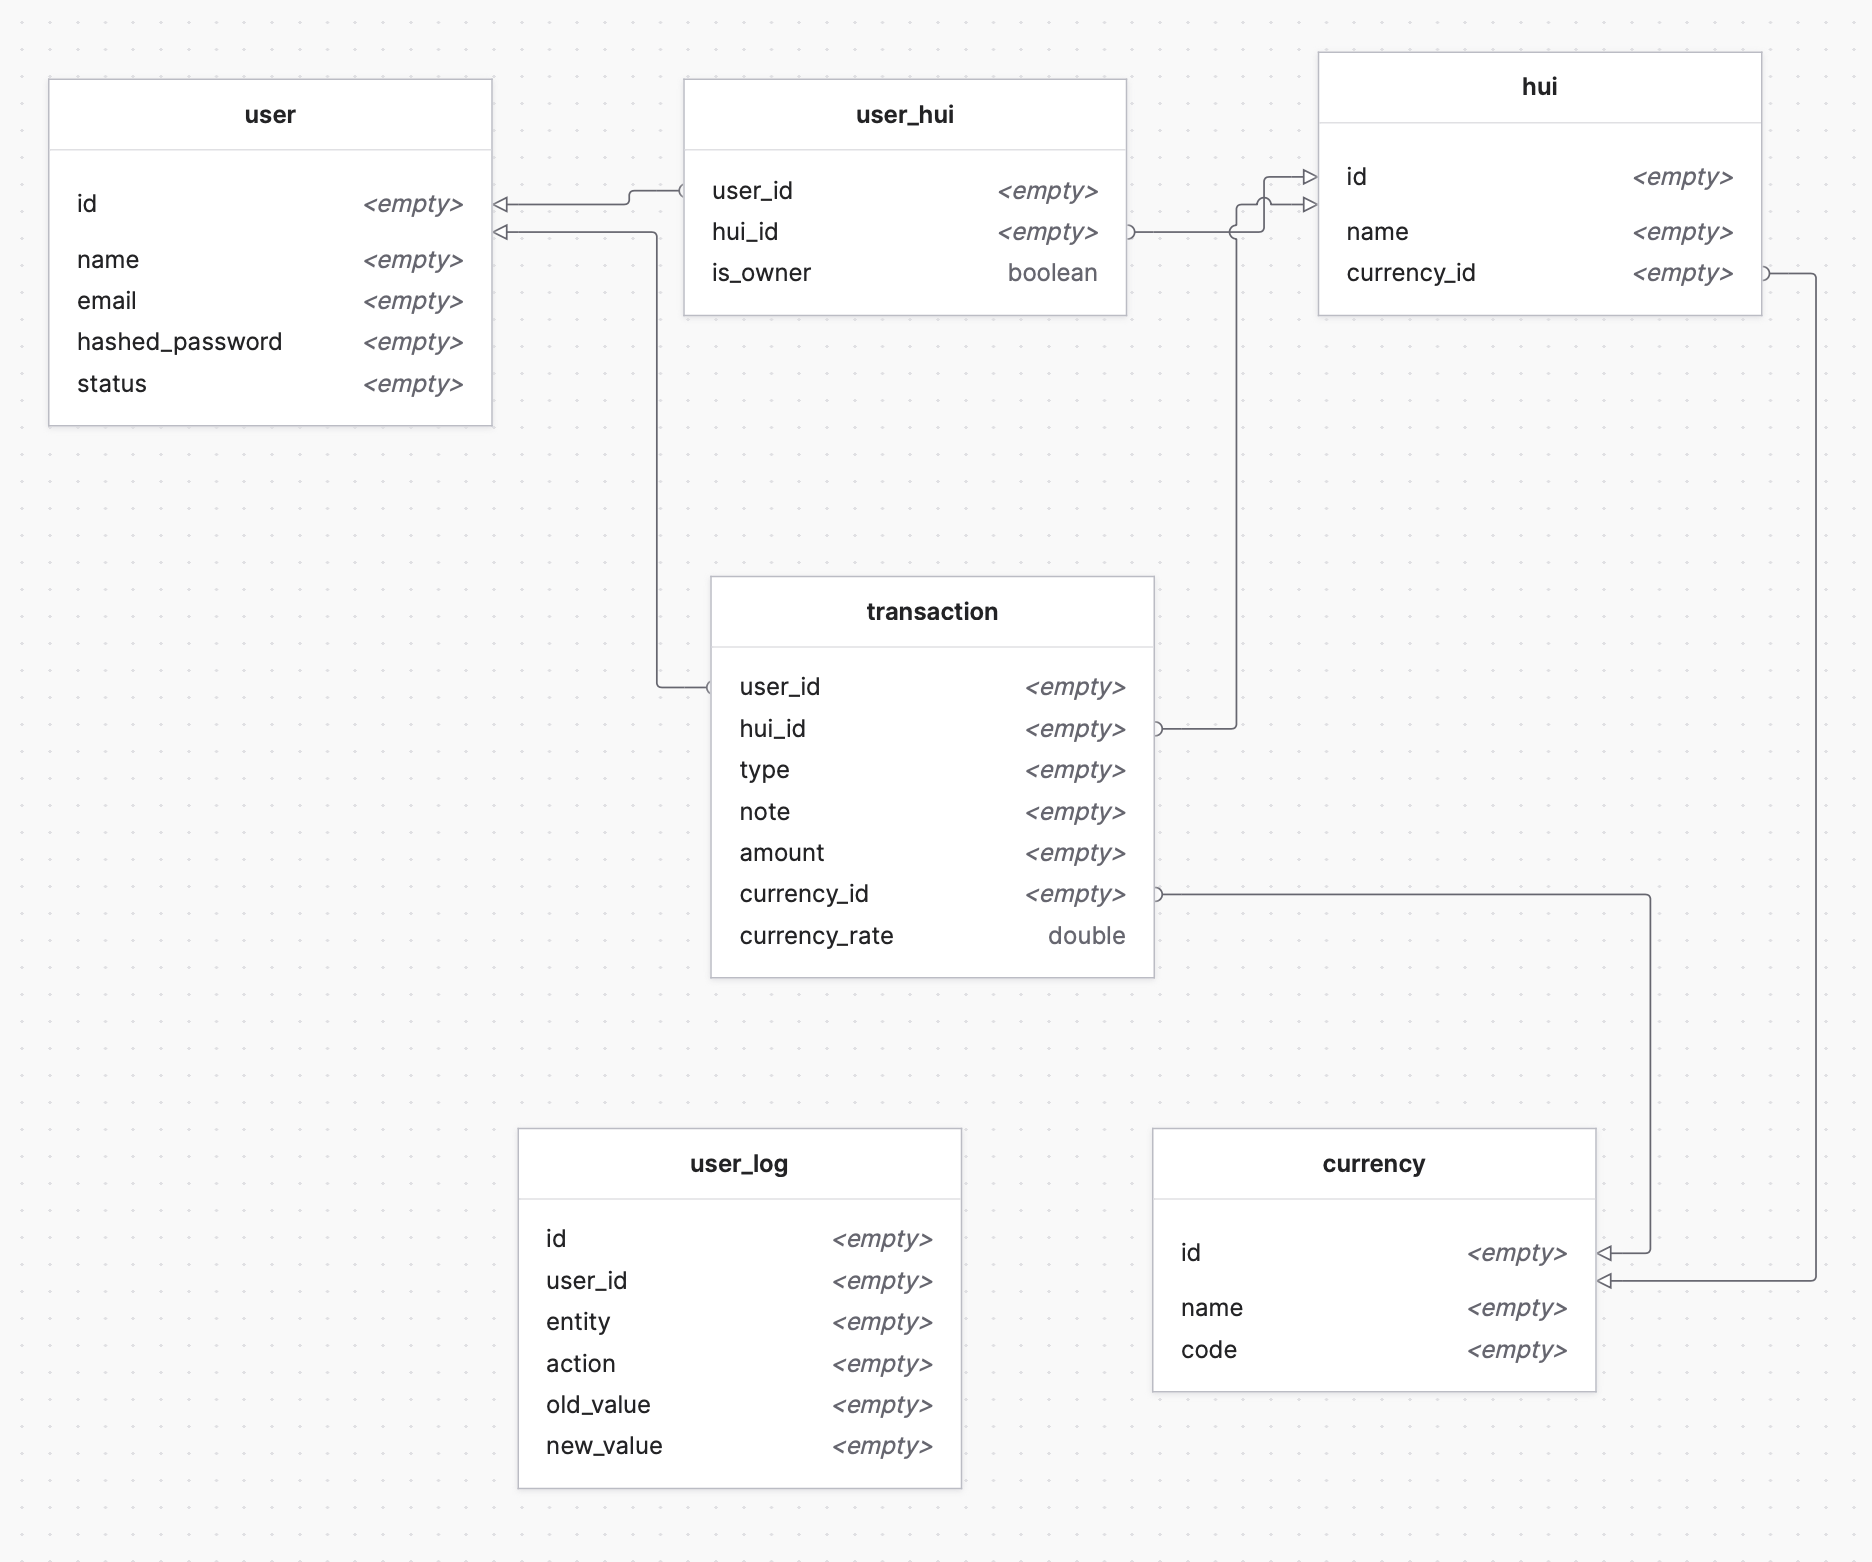
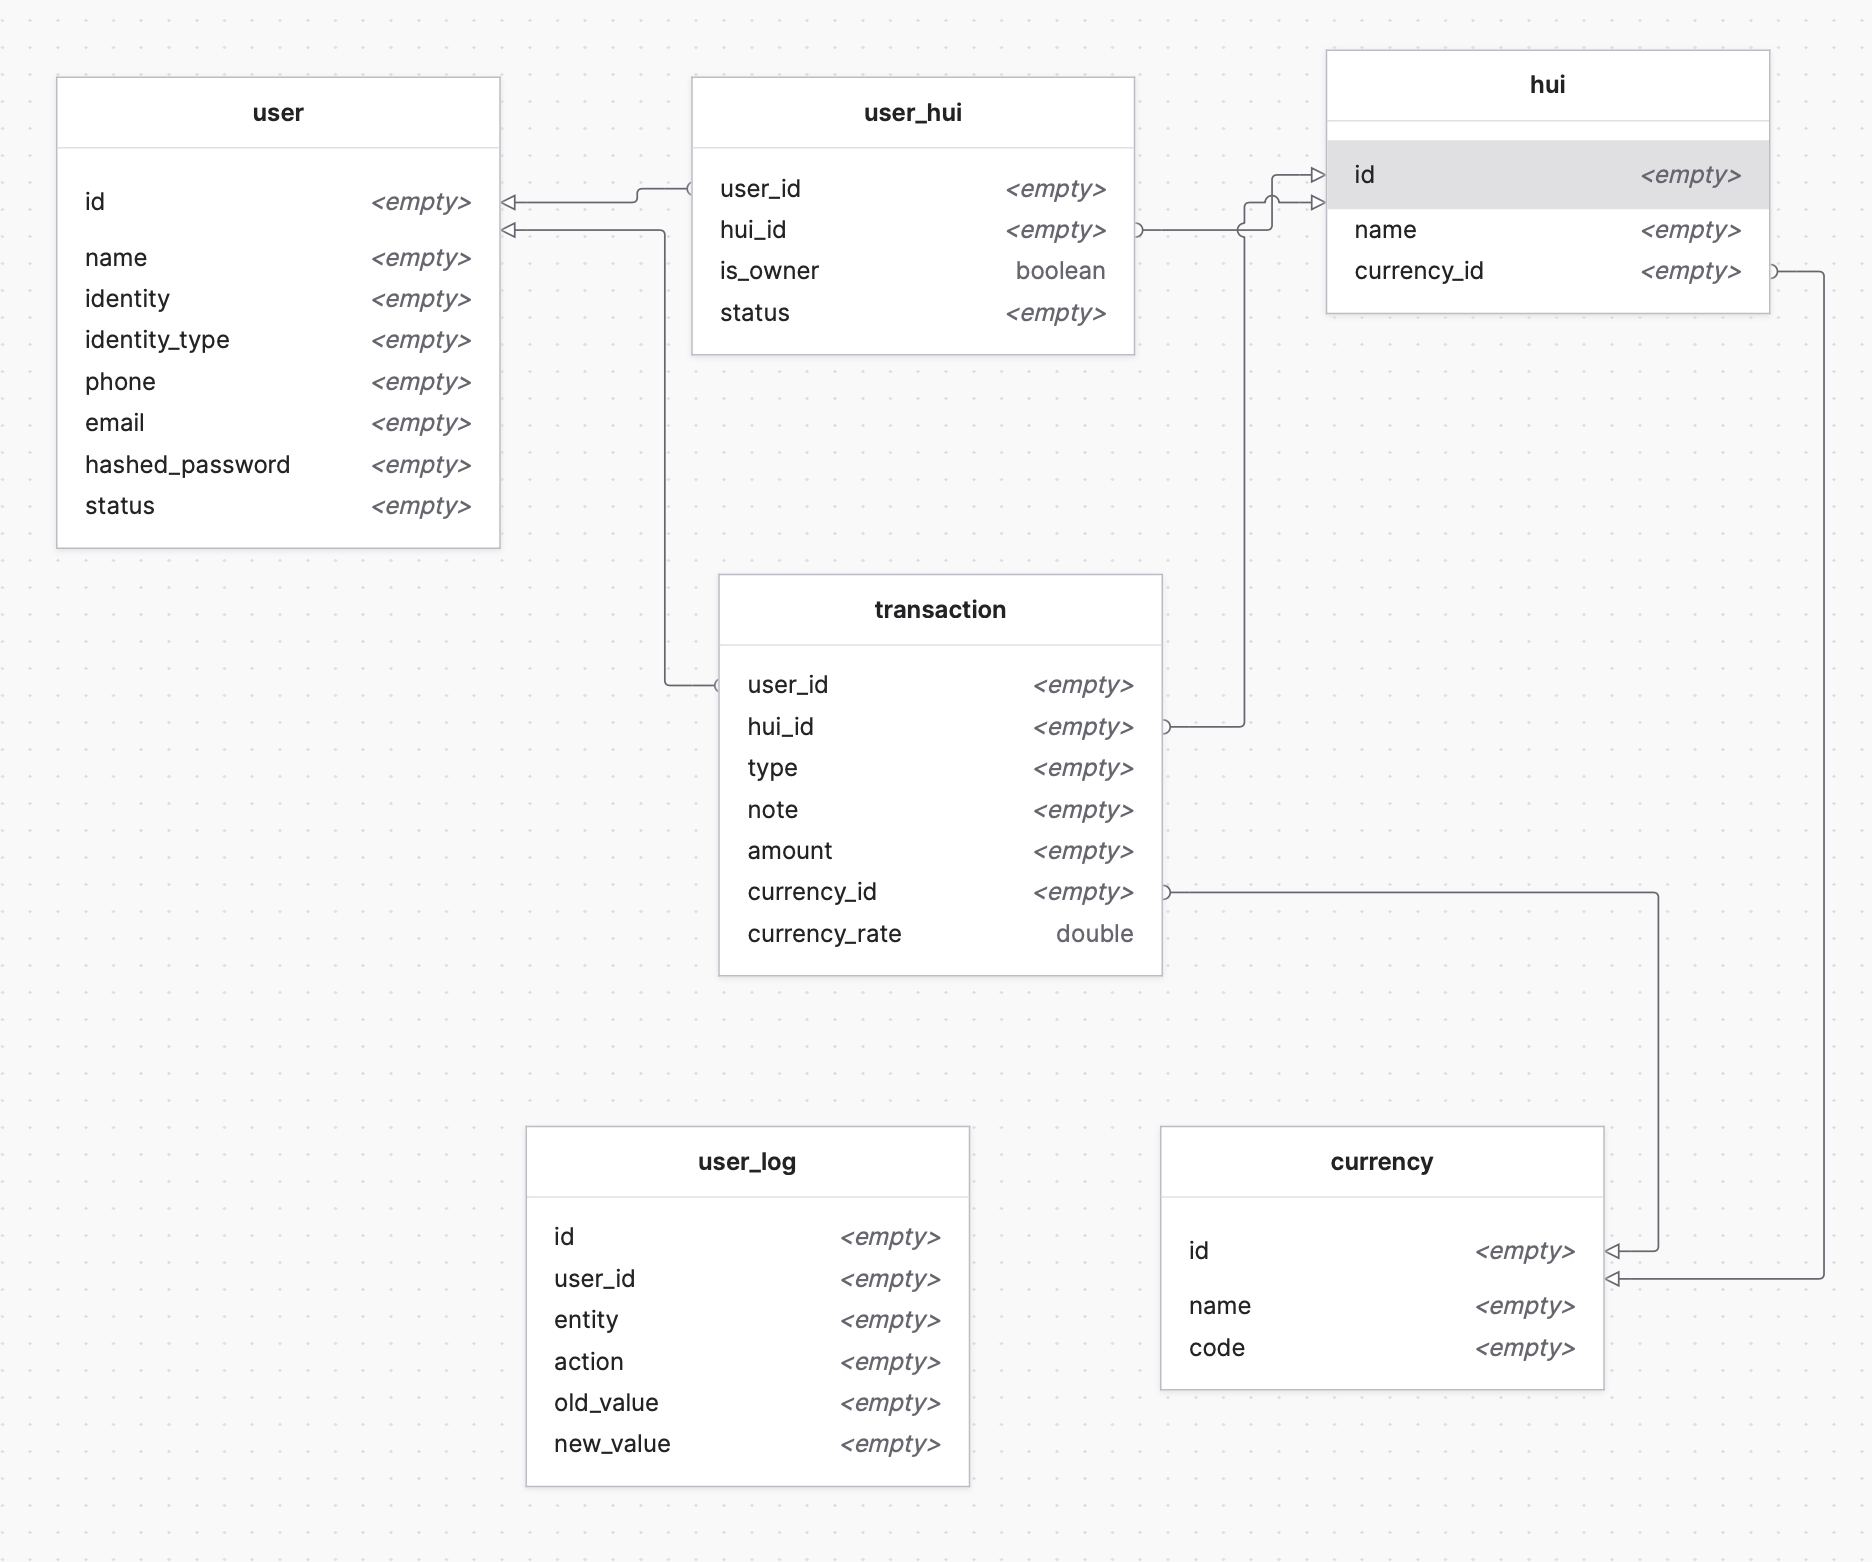
feat: update auth feature identity
- user can sign up by email and phone

diff --git a/README.md b/README.md
@@ -11,9 +11,18 @@ Now you can visit [`localhost:4000`](http://localhost:4000) from your browser.
 Ready to run in production? Please [check our deployment guides](https://hexdocs.pm/phoenix/deployment.html).
 ### Features
 
-- [ ] Auth
-- [ ] User
+- [x] Auth: `api/auth`
+  - [x] Sign up by phone, email `/sign-up`
+  - [x] Log in `/login`
 - [ ] Hui
+  - [ ] Init Hui
+  - [ ] Hui list with status `joined`, `awaiting`, `left`
+  - [ ] Invite member
+  - [ ] Confirm join
+  - [ ] Leave Hui
+  - [ ] Transfer Admin
+- [ ] Bill
+  - [ ] Make a bill and split for members(all, selected members, a member)
 - [ ] Balance
   - [ ] Check balance
   - [ ] Deposit
